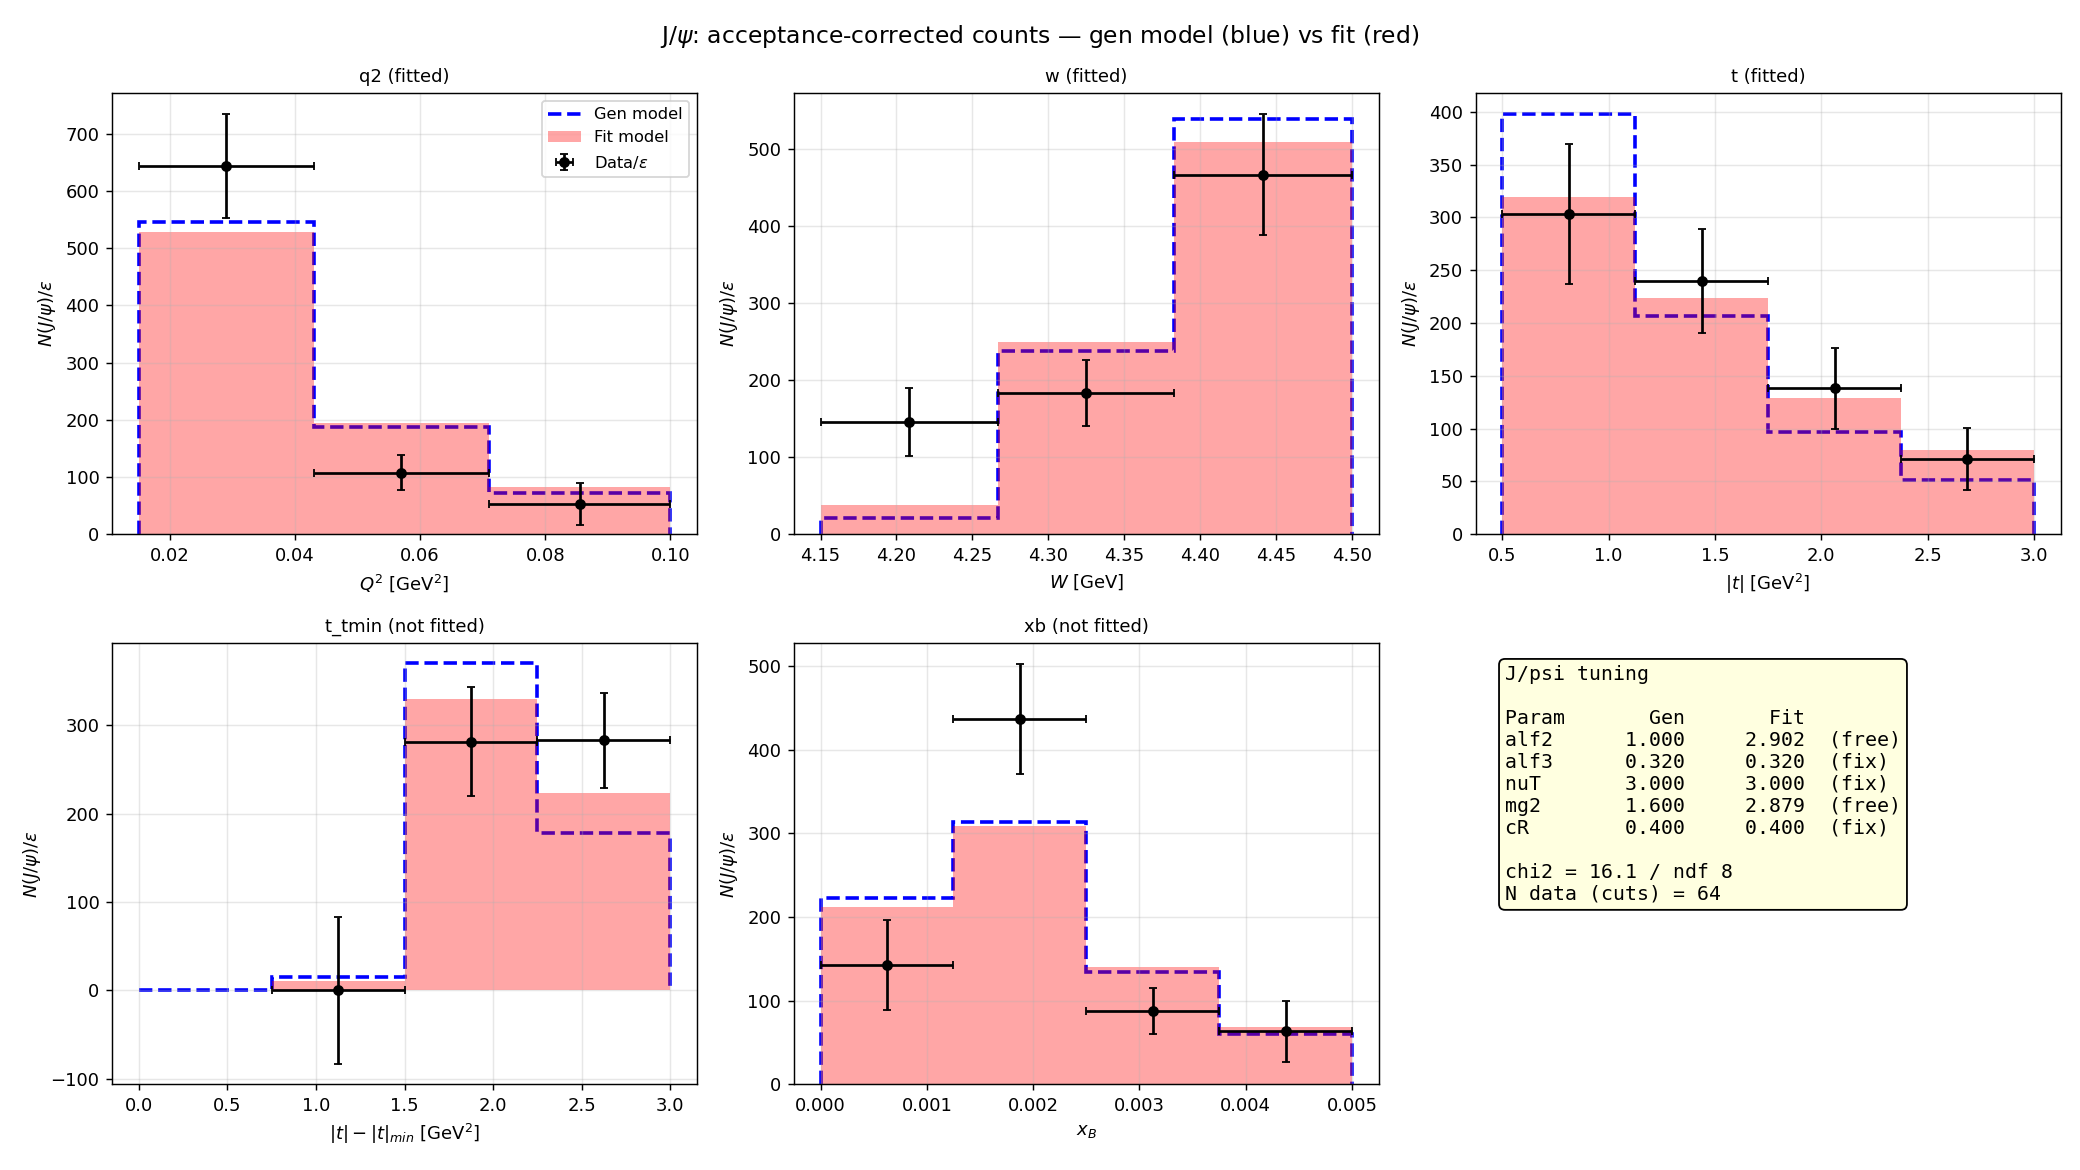
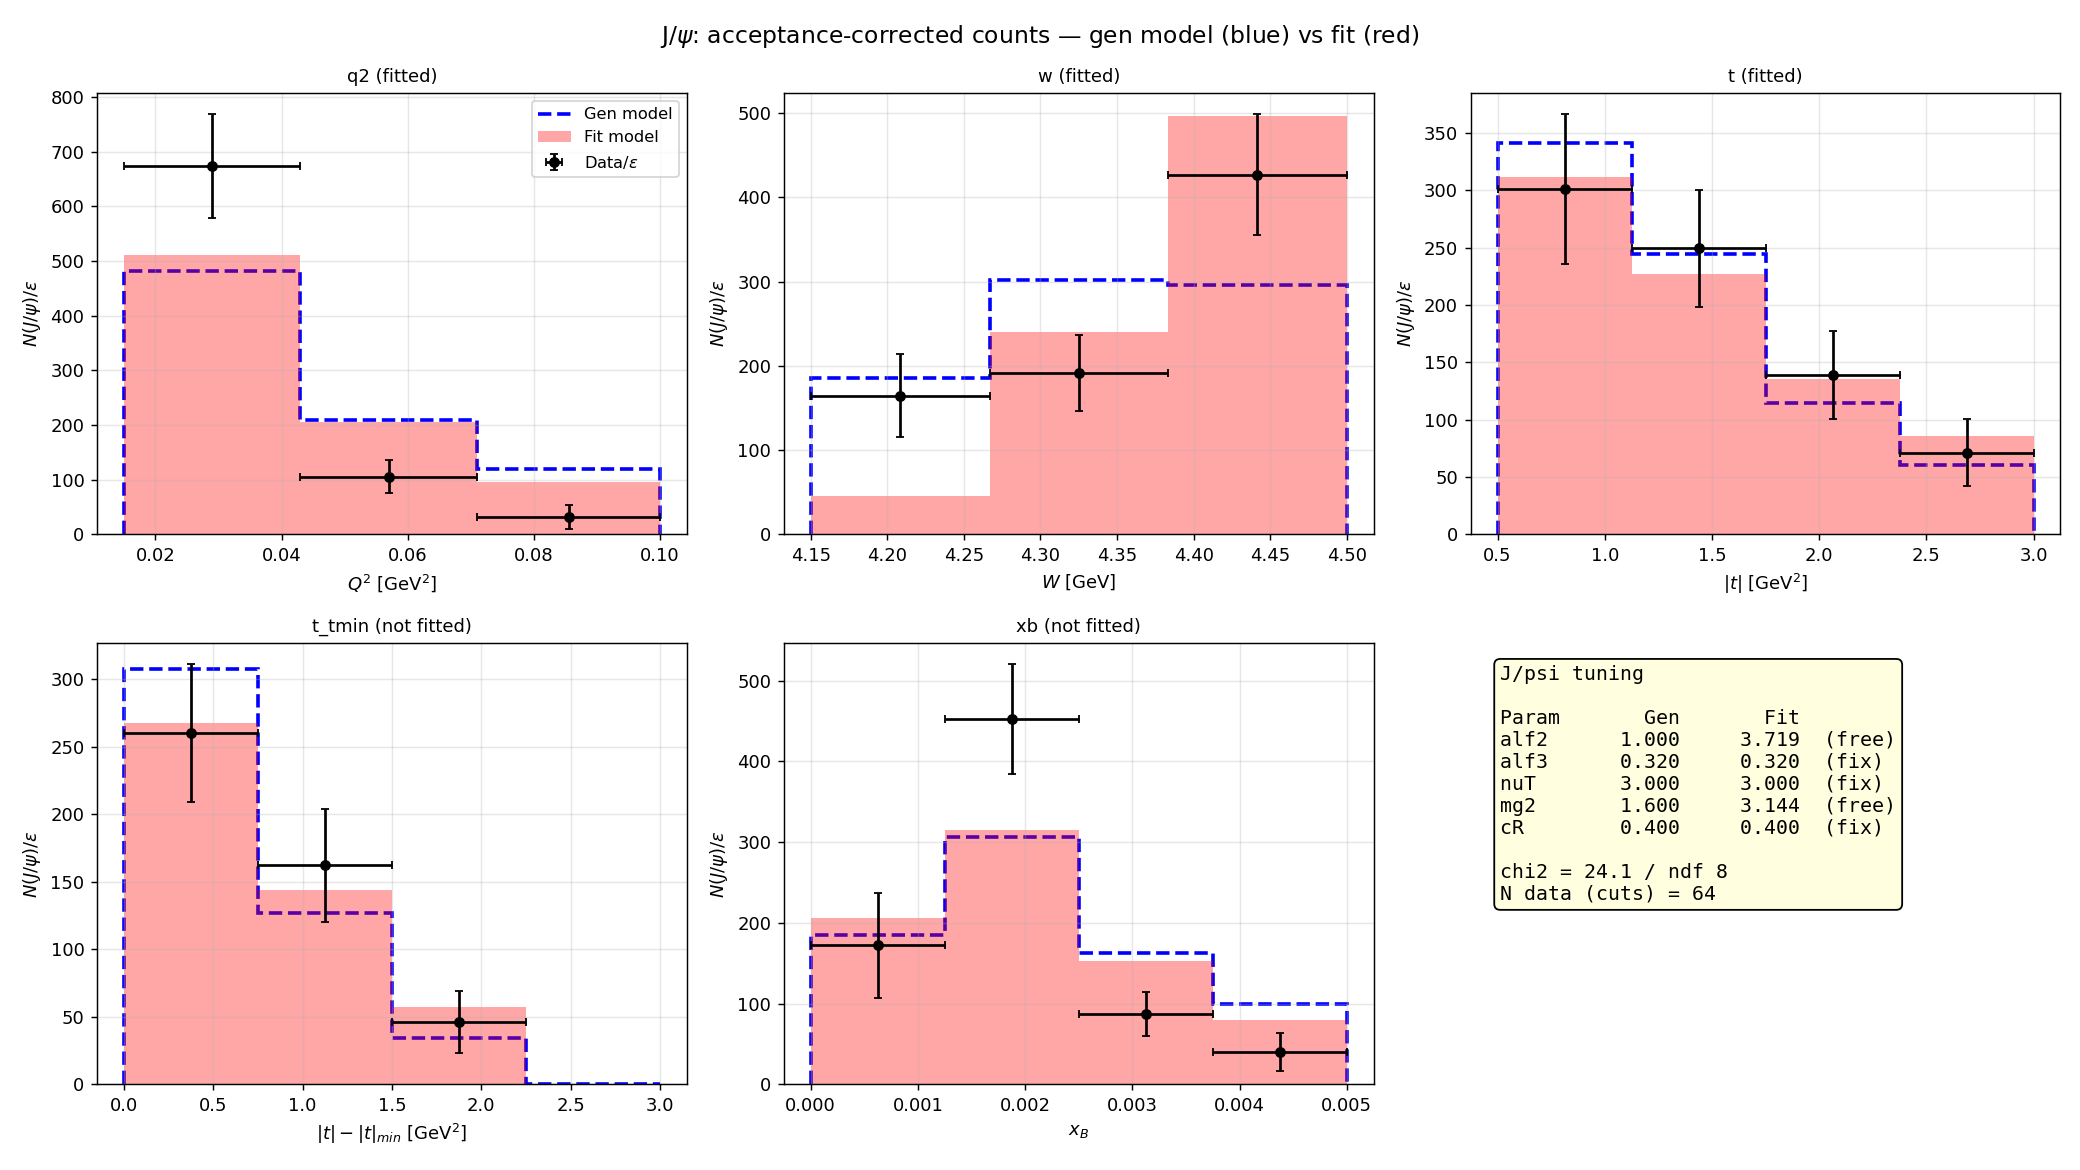
jpsi: fix dipole tmin sign bugs, iteration 1 results
Two bugs found via the t' distribution starting at ~1 instead of 0:
1) compute_tmin returned -(|t|_min); t' was shifted by 2|t|min
2) generator dipole normalization 3(mg2-|tmin|)^3 goes NEGATIVE near
   threshold (|t|min>mg2 below W~4.23), silently rejecting events.
   Correct form: 3(mg2+|tmin|)^3. Fixed in sigma_T_jpsi+sigma_L_jpsi.
Iteration 1 (fixed): alf2 1.0->3.72, mg2 1.6->3.14, chi2=24.1/8.
Q2 first-bin tension is untunable (flux-driven; (1+Q2/m2)^-nuT flat
to <1% in FT range).

diff --git a/jpsi/jpsi_analyze.py b/jpsi/jpsi_analyze.py
@@ -40,7 +40,7 @@ def compute_tmin(q2, xb):
     pcm_i = np.sqrt(np.maximum(ecm_i**2 - MP2, 0))
     ecm_f = (w2 + MJP2 - MP2) / (2 * w)
     pcm_f = np.sqrt(np.maximum(ecm_f**2 - MJP2, 0))
-    return (ecm_i - ecm_f)**2 - (pcm_i - pcm_f)**2
+    return (pcm_i - pcm_f)**2 - (ecm_i - ecm_f)**2   # |t|_min > 0
 
 
 def sigma_model(q2, xb, t_pos, tmin_pos, alf2, alf3, nuT, mg2, cR):

diff --git a/jpsi/jpsi_pipeline.py b/jpsi/jpsi_pipeline.py
@@ -43,7 +43,7 @@ def compute_tmin(q2, xb):
     pcm_i = np.sqrt(np.maximum(ecm_i**2 - MP2, 0))
     ecm_f = (w2 + MJP2 - MP2) / (2 * w)
     pcm_f = np.sqrt(np.maximum(ecm_f**2 - MJP2, 0))
-    return (ecm_i - ecm_f)**2 - (pcm_i - pcm_f)**2
+    return (pcm_i - pcm_f)**2 - (ecm_i - ecm_f)**2   # |t|_min > 0
 
 
 def step1_generate(cfg, ebeam_str):
